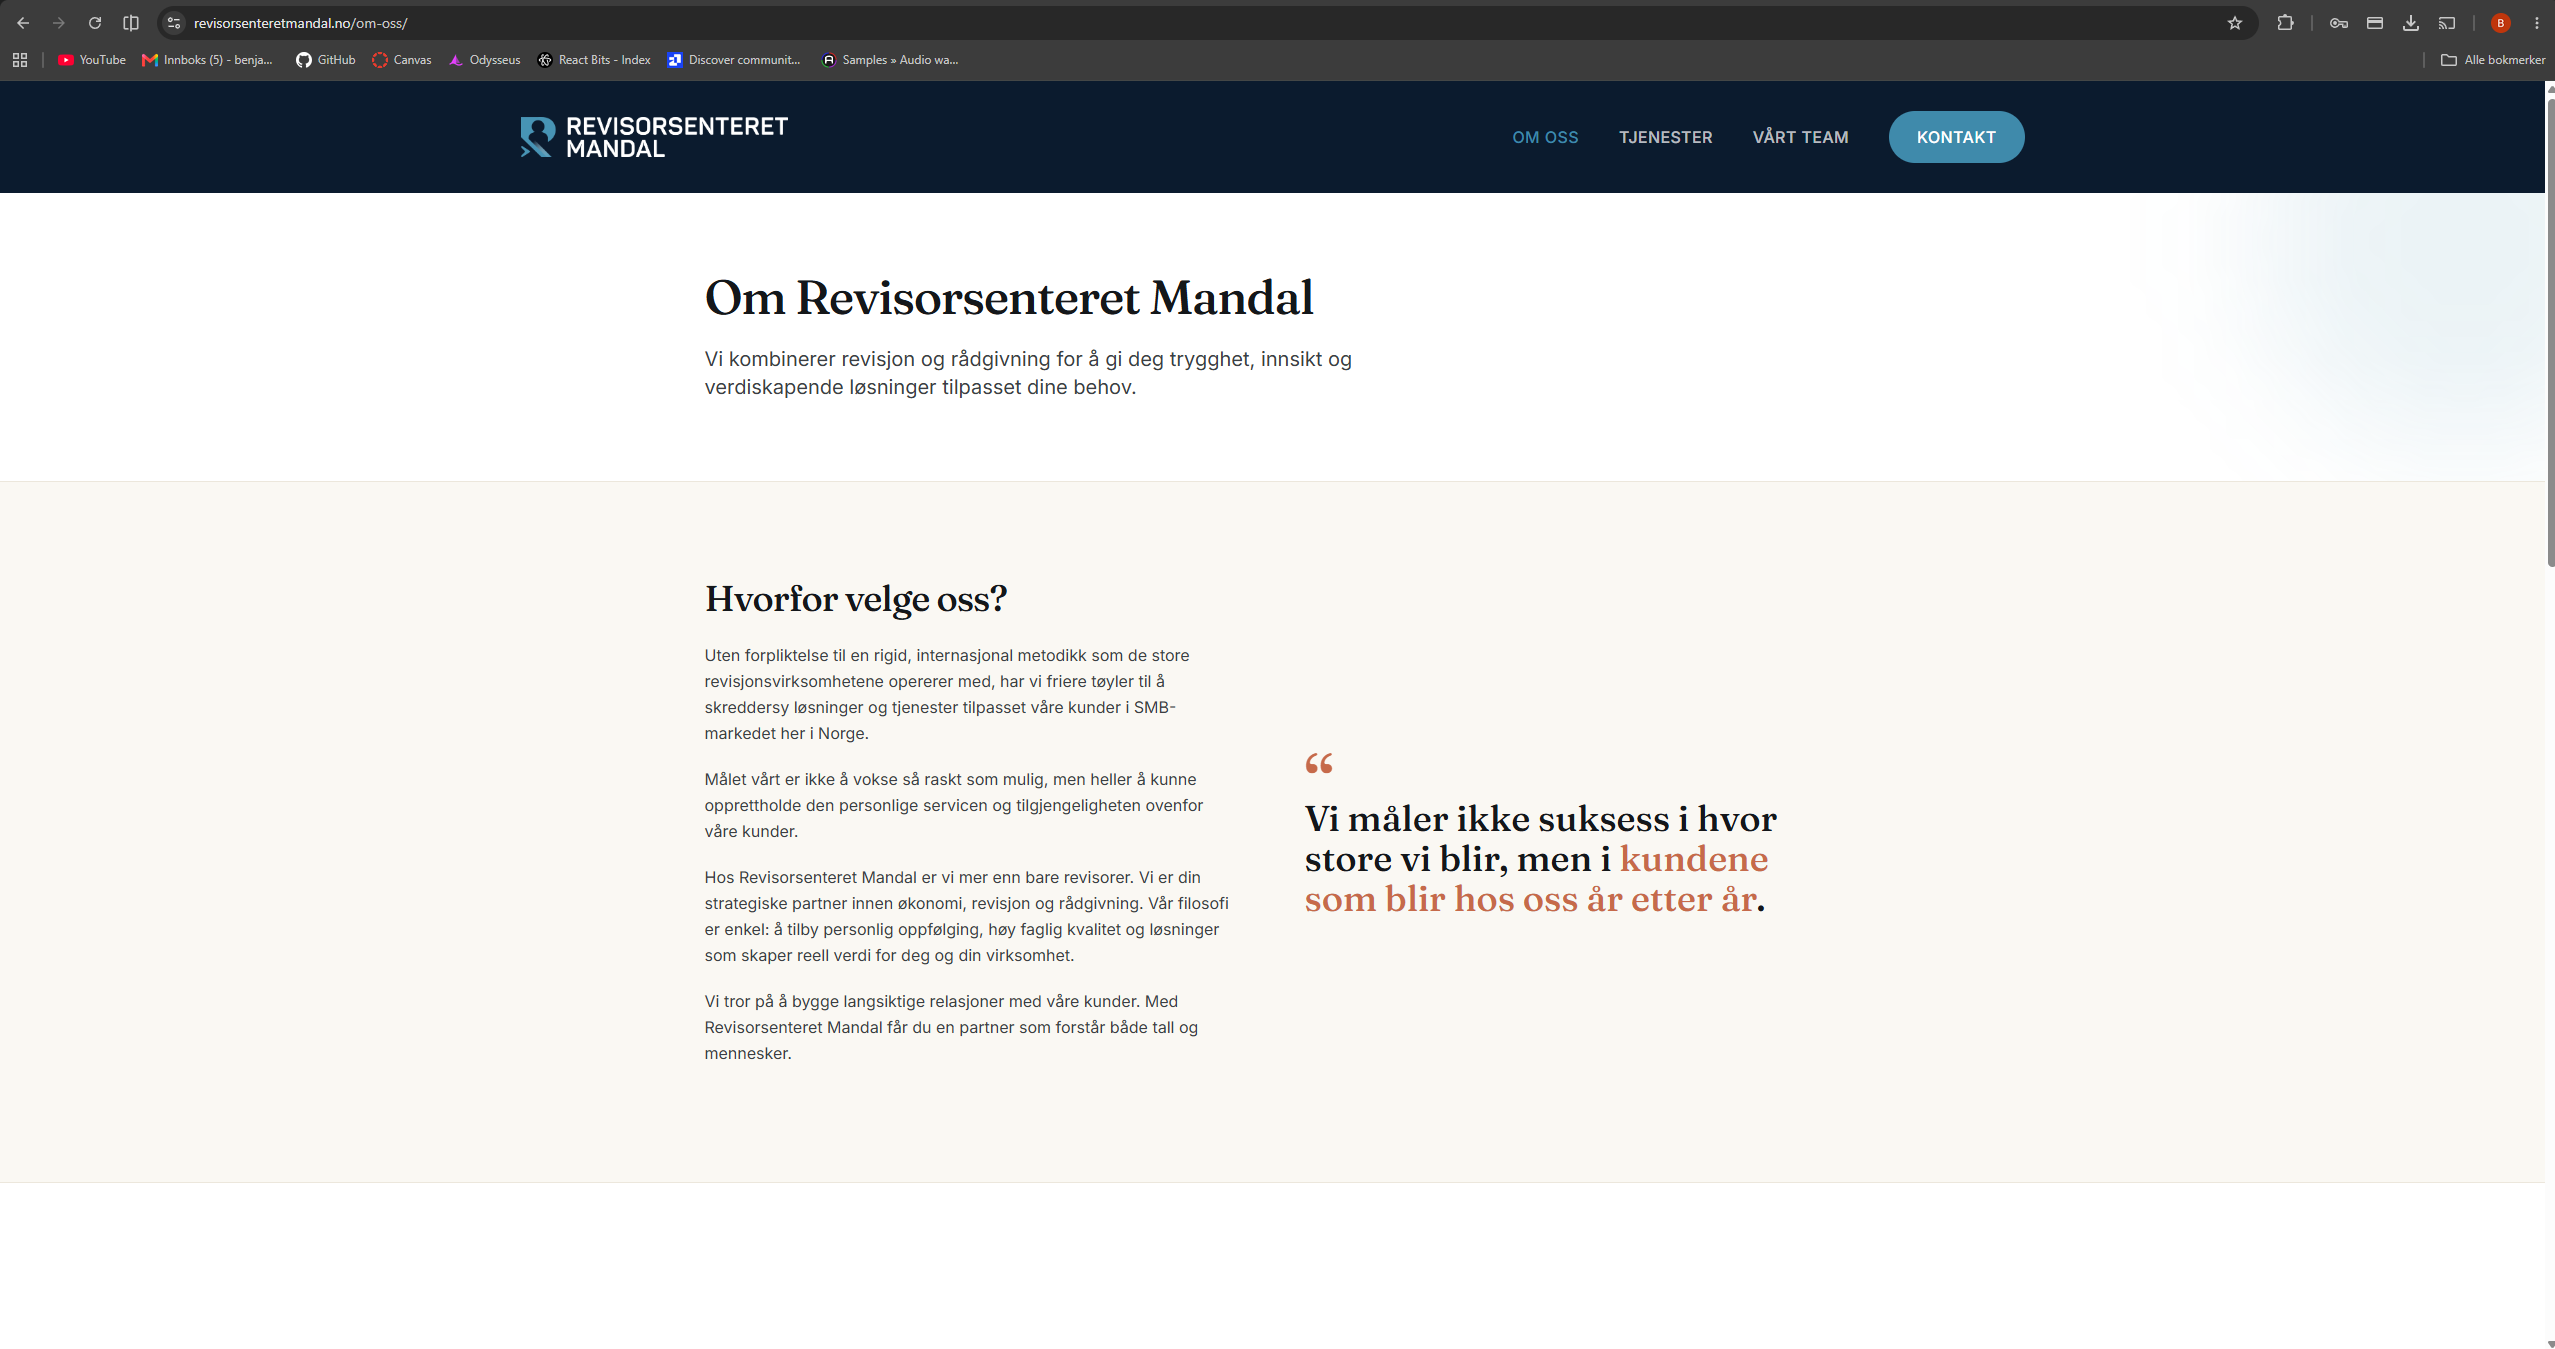
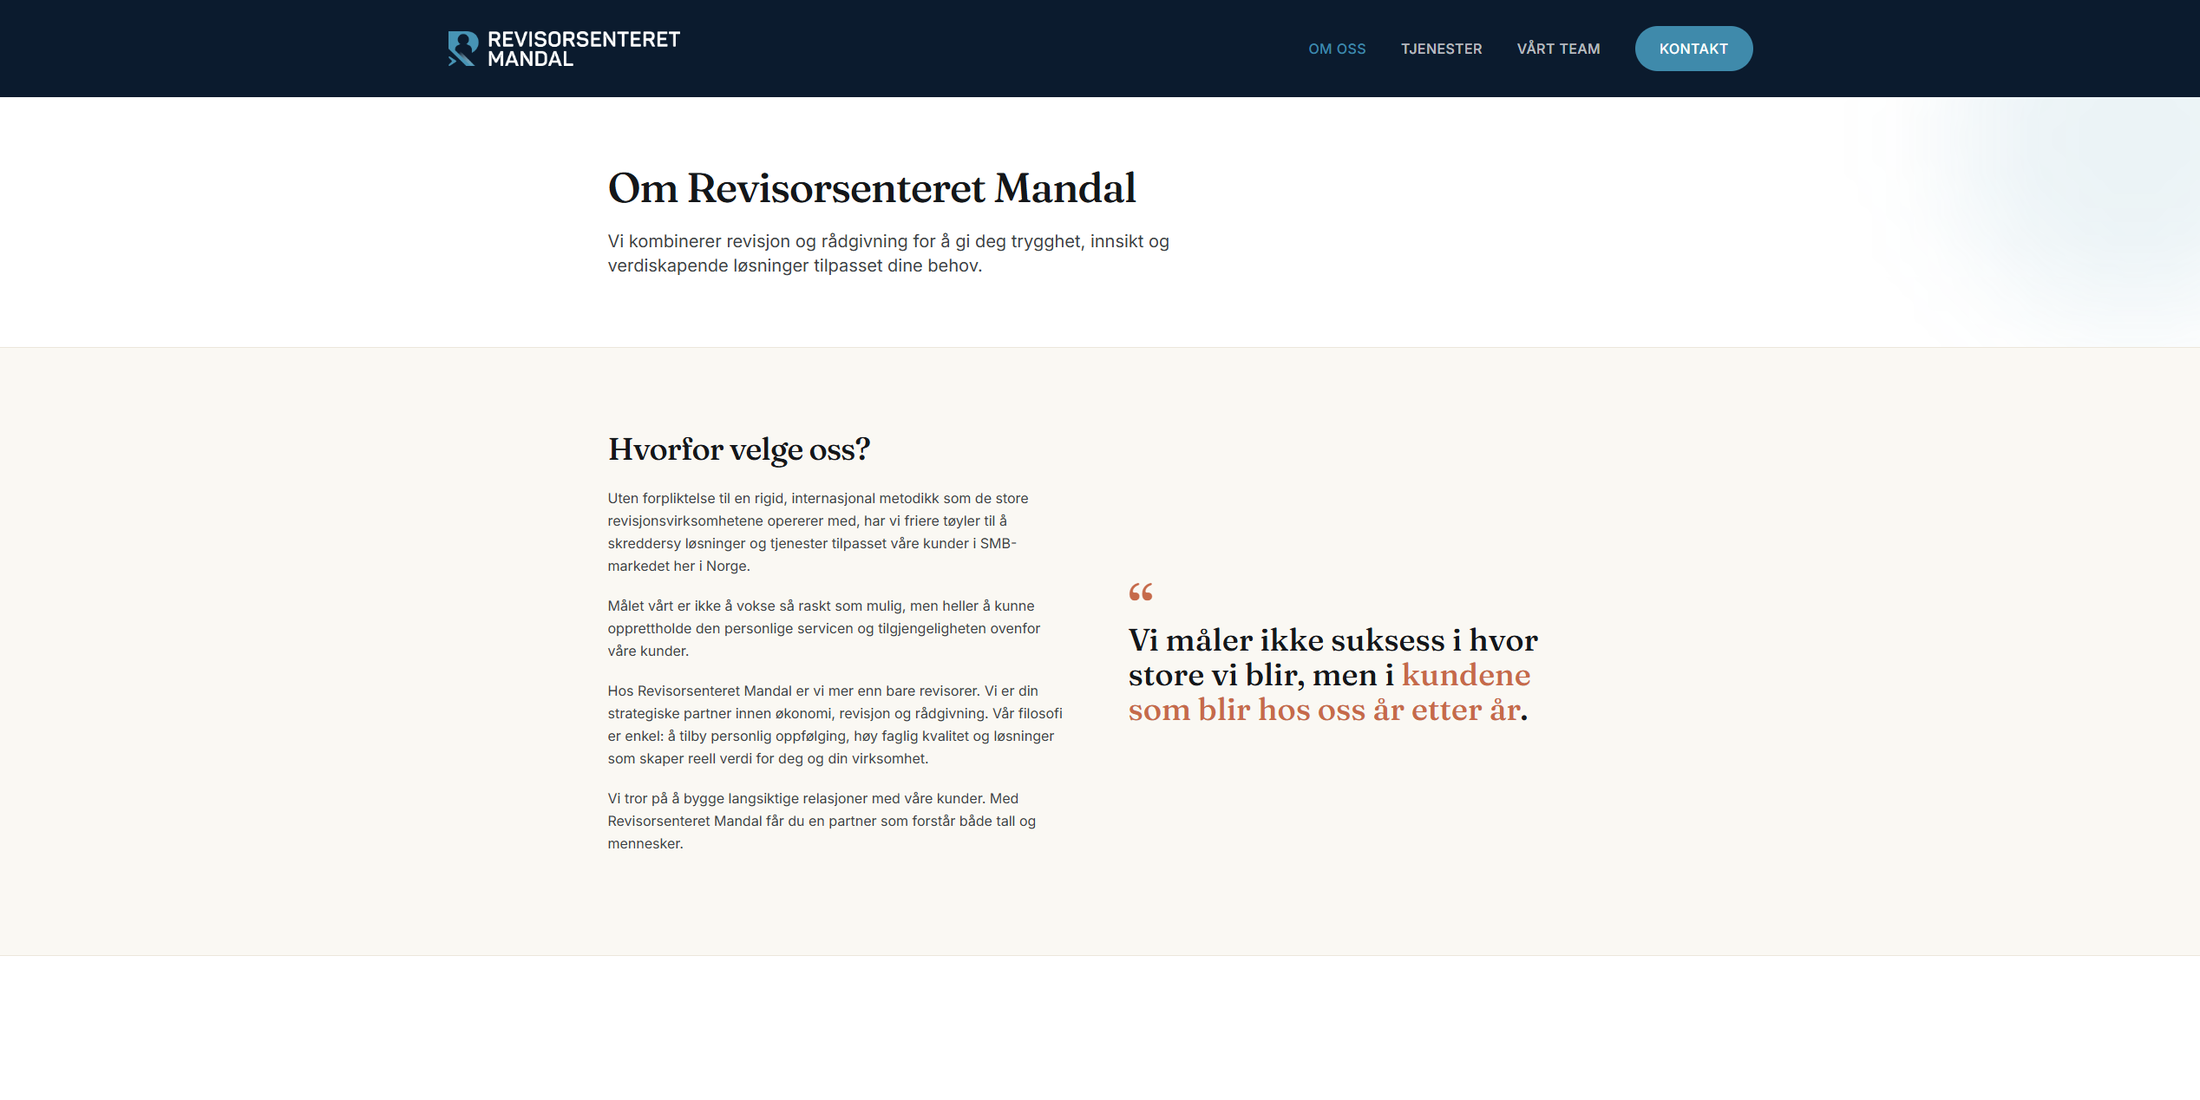
feat: replace nettside before/after grid with a drag slider
Swaps the two side-by-side tiles for a single wide frame per comparison,
using react-compare-slider. The new site is itemOne (left) and the old
site is itemTwo (right), so the redesign is what you land on and the old
page is what you drag out from behind it.

Image prep, since a wipe only reads if both sides frame the same thing:
- Cropped browser chrome (tab strip, address bar, bookmarks; y<80) and the
  right-hand scrollbar off both "after" screenshots. Previously the chrome
  flashed in and out as the divider moved.
- Normalized all four to 2200x1100 (2:1, ~2x the rendered box), matching
  the frame's aspect-ratio so nothing is distorted or letterboxed.
- Renamed to forside-before/after and omoss-before/after; drops the ad-hoc
  before.png / -v2 names and the omoss crop from the previous commit, which
  the wide frame makes unnecessary.

The handle sets --rcs-handle-color inline on its own root, so the accent
colour has to be passed via the handle's style prop rather than inherited
from .ba-slider-frame. Default white was invisible against the light old
page.

Note: comparisons no longer open the lightbox on click — a click now sets
the divider position instead.

diff --git a/src/components/ProjectDetails.jsx b/src/components/ProjectDetails.jsx
@@ -1,6 +1,7 @@
 import { useState } from "react"
 import { Reveal } from "./motion"
 import Photo from "./Photo"
+import BeforeAfter from "./BeforeAfter"
 import Lightbox from "./Lightbox"
 import SplatViewerLazy from "./SplatViewerLazy"
 import { projects } from "../data/content"
@@ -49,29 +50,13 @@ export default function ProjectDetails() {
               ) : p.comparisons ? (
                 <div className="comparisons">
                   {p.comparisons.map((c) => (
-                    <div className="comparison" key={c.label}>
-                      <h3 className="comparison-label">{c.label}</h3>
-                      <div className="before-after">
-                        <figure>
-                          <Photo
-                            src={c.before}
-                            alt={`${p.title} ${c.label} – før`}
-                            className="natural"
-                            onClick={() => open(c.before, `${p.title} ${c.label} – før`)}
-                          />
-                          <figcaption><span className="ba-tag">Før</span></figcaption>
-                        </figure>
-                        <figure>
-                          <Photo
-                            src={c.after}
-                            alt={`${p.title} ${c.label} – etter`}
-                            className="natural"
-                            onClick={() => open(c.after, `${p.title} ${c.label} – etter`)}
-                          />
-                          <figcaption><span className="ba-tag ba-tag-after">Etter</span></figcaption>
-                        </figure>
-                      </div>
-                    </div>
+                    <BeforeAfter
+                      key={c.label}
+                      label={c.label}
+                      before={c.before}
+                      after={c.after}
+                      alt={`${p.title} ${c.label}`}
+                    />
                   ))}
                 </div>
               ) : p.images ? (

diff --git a/src/components/BeforeAfter.jsx b/src/components/BeforeAfter.jsx
@@ -1,0 +1,35 @@
+import { ReactCompareSlider, ReactCompareSliderImage, ReactCompareSliderHandle } from "react-compare-slider"
+
+// Før/etter i én ramme: dra skillelinjen for å avdekke den gamle siden.
+// Begge bildene er normalisert til 2200x1100 (2:1) og beskåret likt, så
+// wipen treffer samme utsnitt på hver side av håndtaket.
+//
+// Etter-bildet ligger til venstre (itemOne) og før-bildet til høyre: det er
+// den nye siden som møter deg, og den gamle man drar fram som referanse.
+export default function BeforeAfter({ label, before, after, alt }) {
+  return (
+    <figure className="ba-slider">
+      {label && <h3 className="comparison-label">{label}</h3>}
+      <ReactCompareSlider
+        className="ba-slider-frame"
+        // Litt til høyre for midten, så den nye siden får mest plass.
+        defaultPosition={55}
+        keyboardIncrement="4%"
+        itemOne={
+          <ReactCompareSliderImage src={after} alt={`${alt} – etter`} loading="lazy" decoding="async" />
+        }
+        itemTwo={
+          <ReactCompareSliderImage src={before} alt={`${alt} – før`} loading="lazy" decoding="async" />
+        }
+        // Håndtaket setter --rcs-handle-color inline på sin egen rot, så
+        // variabelen må overstyres her — ikke fra .ba-slider-frame i CSS-en.
+        // Hvit forsvant mot det lyse før-bildet; aksentgrønn holder mot begge.
+        handle={<ReactCompareSliderHandle style={{ "--rcs-handle-color": "var(--accent)" }} />}
+      />
+      <figcaption className="ba-slider-tags">
+        <span className="ba-tag ba-tag-after">Etter</span>
+        <span className="ba-tag">Før</span>
+      </figcaption>
+    </figure>
+  )
+}

diff --git a/src/index.css b/src/index.css
@@ -211,19 +211,19 @@ button{font:inherit;}
 }
 .comparison-label{font-family:"Schibsted Grotesk",system-ui,sans-serif;font-size:16px;
   font-weight:600;letter-spacing:-.01em;color:var(--ink);margin:0 0 12px;}
-.before-after{display:grid;grid-template-columns:repeat(2,1fr);gap:18px;}
-/* før/etter deler samme format så bildene alltid blir like store */
-.before-after .photo.natural{aspect-ratio:2/1;height:auto;}
-.before-after .photo.natural img{width:100%;height:100%;object-fit:fill;}
-.before-after figure{margin:0;display:flex;flex-direction:column;gap:10px;}
+/* én ramme per sammenligning; skillelinjen dras for å avdekke etter-bildet.
+   Bildene er 2200x1100, så 2/1 gir null forvrengning. */
+.ba-slider{margin:0;}
+.ba-slider-frame{aspect-ratio:2/1;width:100%;border:1px solid var(--line);border-radius:10px;
+  overflow:hidden;background-color:var(--img);}
+.ba-slider-frame img{display:block;width:100%;height:100%;object-fit:cover;}
+.ba-slider-tags{display:flex;justify-content:space-between;margin-top:10px;}
 /* naturlig høyde: bildet vises helt, uten beskjæring */
 .photo.natural{display:block;height:auto;}
 .photo.natural img{width:100%;height:auto;object-fit:contain;}
-.before-after figcaption{display:flex;}
 .ba-tag{font-family:"Spline Sans Mono",monospace;font-size:11.5px;letter-spacing:.04em;
   padding:4px 10px;border:1.5px solid var(--muted);border-radius:20px;color:var(--sub);}
 .ba-tag-after{border-color:var(--accent);color:var(--accent-ink);background:var(--accent-soft);}
-@media (max-width:620px){.before-after{grid-template-columns:1fr;}}
 
 /* ---------- fullskjerm bildevisning (lightbox) ---------- */
 .photo.zoomable{cursor:zoom-in;}

diff --git a/src/data/content.js b/src/data/content.js
@@ -49,18 +49,19 @@ export const projects = [
     num: "03",
     title: "Nettside",
     tag: "Web",
-    image: `${import.meta.env.BASE_URL}projects/nettside/forside-after-v2.png`,
+    image: `${import.meta.env.BASE_URL}projects/nettside/forside-after.png`,
+    // Alle fire er normalisert til 2200x1100 (2:1), og nettleserkrommet
+    // (fanerad, adressefelt, rullefelt) er beskåret bort fra etter-bildene.
+    // Slideren wiper mellom dem, så utsnittene må matche.
     comparisons: [
       {
         label: "Forside",
-        before: `${import.meta.env.BASE_URL}projects/nettside/before.png`,
-        after: `${import.meta.env.BASE_URL}projects/nettside/forside-after-v2.png`,
+        before: `${import.meta.env.BASE_URL}projects/nettside/forside-before.png`,
+        after: `${import.meta.env.BASE_URL}projects/nettside/forside-after.png`,
       },
       {
         label: "Om oss",
-        // v2: beskåret til 2:1 rundt innholdet. Råskjermbildet var 60 % tomt
-        // hvitt, og ble skviset til en tilsynelatende blank rute i rutenettet.
-        before: `${import.meta.env.BASE_URL}projects/nettside/omoss-before-v2.png`,
+        before: `${import.meta.env.BASE_URL}projects/nettside/omoss-before.png`,
         after: `${import.meta.env.BASE_URL}projects/nettside/omoss-after.png`,
       },
     ],
